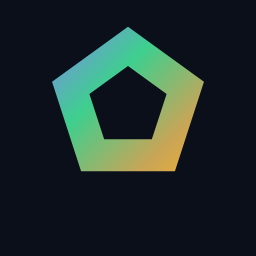
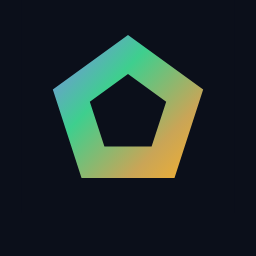
Center the pentagon mark in its tile
The app/home-screen icon sat high-left because the pentagon's bounding box
wasn't centered (a pentagon points up, leaving extra space below). Re-derived
the geometry so the bounding box is centered with equal padding on all sides,
and applied it to the PNGs (apple-touch-icon/256/512), the favicon, and the
in-app header/login mark so it's consistent everywhere.

Claude-Session: https://claude.ai/code/session_01FujRcQThb5jqA2Y6NEwUAj

diff --git a/apps/shell/src/App.jsx b/apps/shell/src/App.jsx
@@ -55,7 +55,7 @@ function useSession() {
 const PentagonLogo = ({ size = 22 }) => (
   <svg width={size} height={size} viewBox="0 0 32 32" fill="none" aria-hidden="true" style={{ display: "block", flexShrink: 0, filter: "drop-shadow(0 0 6px rgba(139,124,255,0.28))" }}>
     <defs>
-      <linearGradient id="pentagon-grad" x1="2" y1="2" x2="30" y2="30" gradientUnits="userSpaceOnUse">
+      <linearGradient id="pentagon-grad" x1="4" y1="5" x2="28" y2="27" gradientUnits="userSpaceOnUse">
         <stop offset="0" stopColor="#8B7CFF" />
         <stop offset="0.38" stopColor="#3ECF8E" />
         <stop offset="0.72" stopColor="#C9A557" />
@@ -64,7 +64,7 @@ const PentagonLogo = ({ size = 22 }) => (
     </defs>
     <path
       fillRule="evenodd" clipRule="evenodd" fill="url(#pentagon-grad)"
-      d="M16 4 L27.41 12.29 L23.05 25.71 L8.95 25.71 L4.59 12.29 Z M16 9.9 L21.8 14.12 L19.58 20.93 L12.42 20.93 L10.2 14.12 Z"
+      d="M16 5.25 L27.29 13.46 L22.98 26.74 L9.02 26.74 L4.71 13.46 Z M16 11.1 L21.74 15.27 L19.54 22.01 L12.46 22.01 L10.26 15.27 Z"
     />
   </svg>
 );